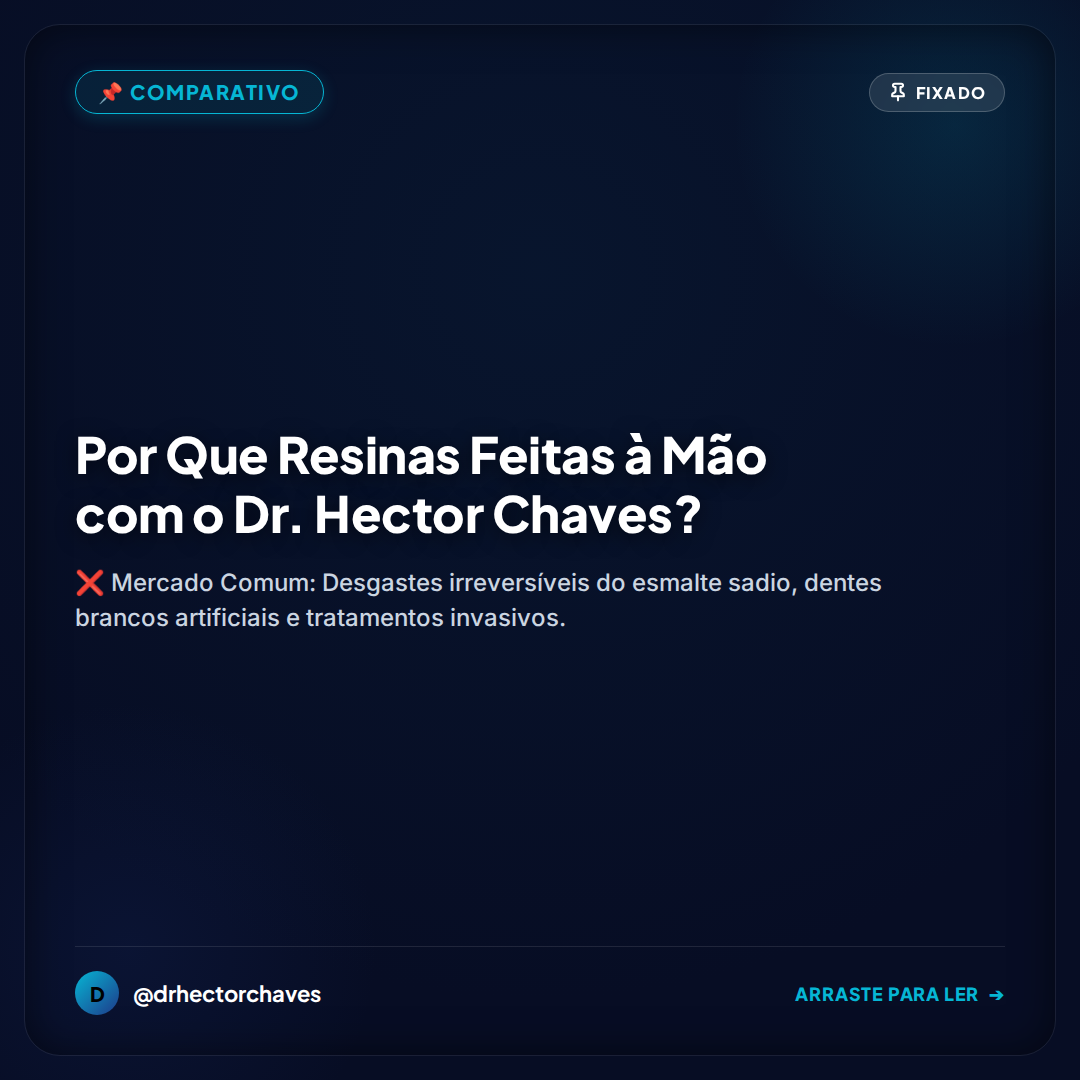
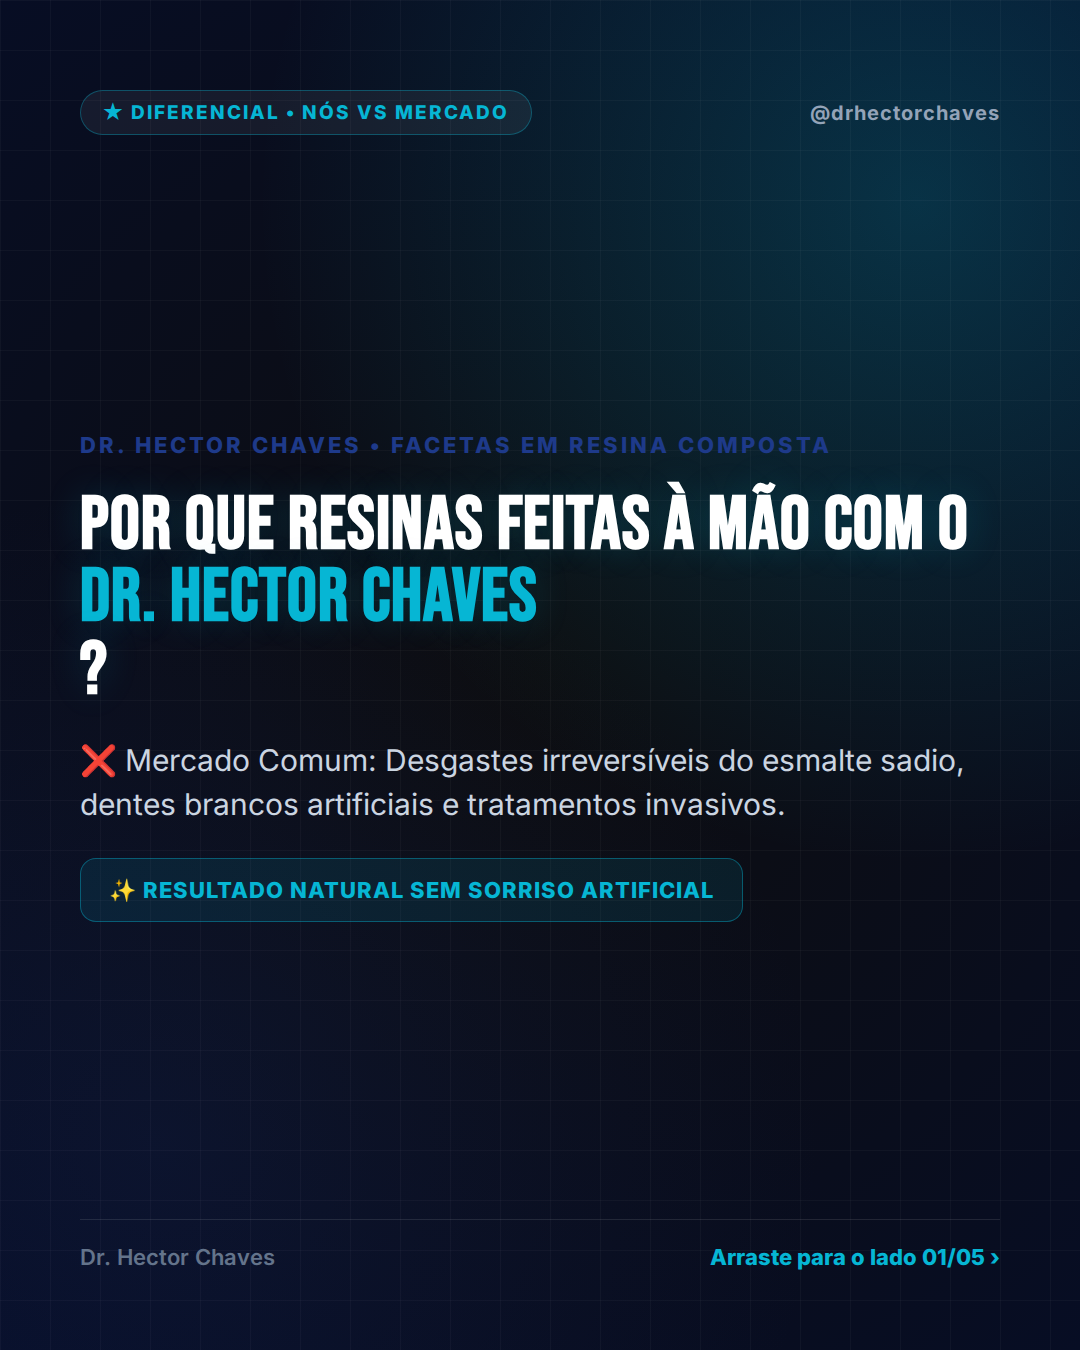
feat(prospect): unificar hotsite multivisao e entregaveis para Dr. Hector Chaves

diff --git a/dr-hector-chaves/index.html b/dr-hector-chaves/index.html
@@ -1716,7 +1716,7 @@ Venha tomar um café conosco ou chame no WhatsApp!</p>
             
             <!-- Base do Card: Título Legível -->
             <div class="relative z-20 mt-auto pt-1">
-                <p class="text-[9px] font-extrabold text-white leading-tight drop-shadow-md line-clamp-2">Sorriso Natural Sem Desgaste: Facetas ...</p>
+                <p class="text-[9px] font-extrabold text-white leading-tight drop-shadow-md line-clamp-2">Sorriso Natural Sem Desgaste: **Faceta...</p>
             </div>
         </div>
         
@@ -1735,7 +1735,7 @@ Venha tomar um café conosco ou chame no WhatsApp!</p>
             
             <!-- Base do Card: Título Legível -->
             <div class="relative z-20 mt-auto pt-1">
-                <p class="text-[9px] font-extrabold text-white leading-tight drop-shadow-md line-clamp-2">Por Que Resinas Feitas à Mão com o Dr....</p>
+                <p class="text-[9px] font-extrabold text-white leading-tight drop-shadow-md line-clamp-2">Por Que Resinas Feitas à Mão com o **D...</p>
             </div>
         </div>
         
@@ -1876,6 +1876,13 @@ Venha tomar um café conosco ou chame no WhatsApp!</p>
                     <span class="text-xs font-black px-3 py-1 rounded-full bg-navy-800 text-gold-400">Fixado #1 • Topo de Funil</span>
                     <span class="text-xs font-bold text-slate-500">Carrossel de 5 Slides</span>
                 </div>
+                <!-- PREVIEW DA CAPA OFICIAL DO POST FIXADO 4:5 (ADR-130) -->
+                <div class="mb-4 rounded-2xl overflow-hidden shadow-md border border-slate-700/60 relative aspect-[4/5] bg-zinc-950 flex flex-col justify-between group">
+                    <img src="assets/capa_fixado_1_quem_somos.png" alt="★ QUEM SOMOS & MANIFESTO" class="w-full h-full object-cover transition-transform duration-300 group-hover:scale-102">
+                    <div class="absolute bottom-2.5 right-2.5 bg-black/75 backdrop-blur-md px-2.5 py-1 rounded-full text-[10px] font-bold text-white border border-white/20 flex items-center gap-1 shadow">
+                        <span>📸</span> <span>Capa 4:5 Oficial</span>
+                    </div>
+                </div>
                 <h5 class="text-base sm:text-lg font-bold text-navy-950 mb-1">1) Opção 1: Quem Somos / Autoridade & Bastidores</h5>
                 <p class="text-xs text-slate-500 mb-4"><strong>Funil:</strong> Topo de Funil • Autoridade & Propósito</p>
                 <div class="space-y-2 mb-4">
@@ -1938,6 +1945,13 @@ Venha tomar um café conosco ou chame no WhatsApp!</p>
                     <span class="text-xs font-black px-3 py-1 rounded-full bg-navy-800 text-gold-400">Fixado #2 • Meio de Funil</span>
                     <span class="text-xs font-bold text-slate-500">Carrossel de 4 Slides</span>
                 </div>
+                <!-- PREVIEW DA CAPA OFICIAL DO POST FIXADO 4:5 (ADR-130) -->
+                <div class="mb-4 rounded-2xl overflow-hidden shadow-md border border-slate-700/60 relative aspect-[4/5] bg-zinc-950 flex flex-col justify-between group">
+                    <img src="assets/capa_fixado_2_comparativo.png" alt="★ DIFERENCIAL • NÓS VS MERCADO" class="w-full h-full object-cover transition-transform duration-300 group-hover:scale-102">
+                    <div class="absolute bottom-2.5 right-2.5 bg-black/75 backdrop-blur-md px-2.5 py-1 rounded-full text-[10px] font-bold text-white border border-white/20 flex items-center gap-1 shadow">
+                        <span>📸</span> <span>Capa 4:5 Oficial</span>
+                    </div>
+                </div>
                 <h5 class="text-base sm:text-lg font-bold text-navy-950 mb-1">4) Opção 4: Comparativo Nós vs Mercado</h5>
                 <p class="text-xs text-slate-500 mb-4"><strong>Funil:</strong> Meio de Funil • Comparativo Nós vs Mercado</p>
                 <div class="space-y-2 mb-4">
@@ -1990,6 +2004,13 @@ Venha tomar um café conosco ou chame no WhatsApp!</p>
                 <div class="flex items-center justify-between mb-3">
                     <span class="text-xs font-black px-3 py-1 rounded-full bg-navy-800 text-gold-400">Fixado #3 • Fundo de Funil</span>
                     <span class="text-xs font-bold text-slate-500">Carrossel de 4 Slides</span>
+                </div>
+                <!-- PREVIEW DA CAPA OFICIAL DO POST FIXADO 4:5 (ADR-130) -->
+                <div class="mb-4 rounded-2xl overflow-hidden shadow-md border border-slate-700/60 relative aspect-[4/5] bg-zinc-950 flex flex-col justify-between group">
+                    <img src="assets/capa_fixado_3_chamada_direta.png" alt="★ PASSO A PASSO • DO DIAGNÓSTICO AO RESULTADO" class="w-full h-full object-cover transition-transform duration-300 group-hover:scale-102">
+                    <div class="absolute bottom-2.5 right-2.5 bg-black/75 backdrop-blur-md px-2.5 py-1 rounded-full text-[10px] font-bold text-white border border-white/20 flex items-center gap-1 shadow">
+                        <span>📸</span> <span>Capa 4:5 Oficial</span>
+                    </div>
                 </div>
                 <h5 class="text-base sm:text-lg font-bold text-navy-950 mb-1">6) Opção 6: Chamada Direta / Avaliação do Sorriso</h5>
                 <p class="text-xs text-slate-500 mb-4"><strong>Funil:</strong> Fundo de Funil • Chamada Direta & WhatsApp</p>
@@ -2407,7 +2428,7 @@ Venha tomar um café conosco ou chame no WhatsApp!</p>
                 </div>
                 <div class="text-slate-400">⋮</div>
             </div>
-            <img src="https://via.placeholder.com/1080x1350/141E57/E7C614?text=Feed+Ads+1" class="w-full h-auto aspect-[4/5] object-cover bg-slate-100" alt="Ad">
+            <img src="assets/capa_fixado_1_quem_somos.png" class="w-full h-auto aspect-[4/5] object-cover bg-slate-100" alt="Ad">
             <div class="bg-slate-50 p-3 border-t border-slate-100 flex justify-between items-center">
                 <span class="text-sm font-bold text-navy-800 hover:underline cursor-pointer">Saiba mais</span>
                 <span class="text-slate-400">❯</span>
@@ -2423,7 +2444,7 @@ Venha tomar um café conosco ou chame no WhatsApp!</p>
                 </div>
                 <div class="text-slate-400">⋮</div>
             </div>
-            <img src="https://via.placeholder.com/1080x1350/141E57/E7C614?text=Feed+Ads+2" class="w-full h-auto aspect-[4/5] object-cover bg-slate-100" alt="Ad">
+            <img src="assets/capa_fixado_2_comparativo.png" class="w-full h-auto aspect-[4/5] object-cover bg-slate-100" alt="Ad">
             <div class="bg-slate-50 p-3 border-t border-slate-100 flex justify-between items-center">
                 <span class="text-sm font-bold text-navy-800 hover:underline cursor-pointer">Saiba mais</span>
                 <span class="text-slate-400">❯</span>
@@ -2435,7 +2456,7 @@ Venha tomar um café conosco ou chame no WhatsApp!</p>
                 <h3 class="text-center font-bold text-slate-500 uppercase tracking-widest text-xs">Simulação Stories</h3>
                 
         <div class="bg-black rounded-3xl shadow-lg overflow-hidden max-w-[280px] mx-auto relative aspect-[9/16]">
-            <img src="https://via.placeholder.com/1080x1920/0C1438/E7C614?text=Story+Ads+1" class="w-full h-full object-cover opacity-90" alt="Ad">
+            <img src="assets/capa_fixado_3_chamada_direta.png" class="w-full h-full object-cover opacity-90" alt="Ad">
             <div class="absolute top-4 left-4 right-4 flex gap-1">
                 <div class="h-0.5 flex-1 bg-white/50 rounded overflow-hidden"><div class="h-full w-1/3 bg-white"></div></div>
             </div>
